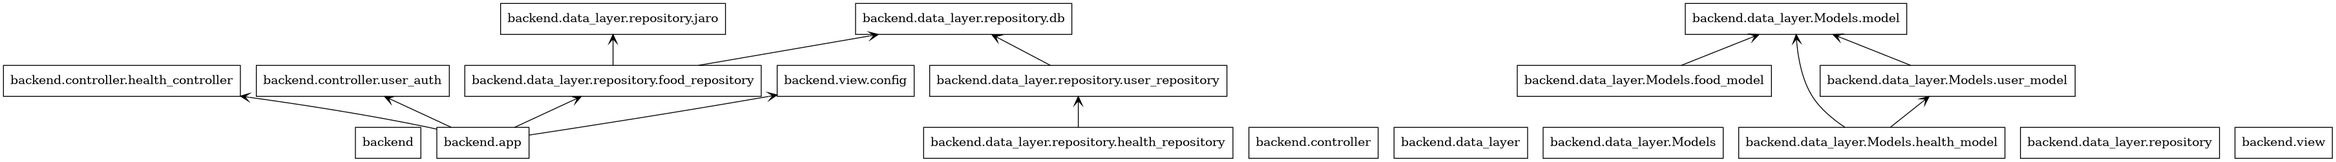
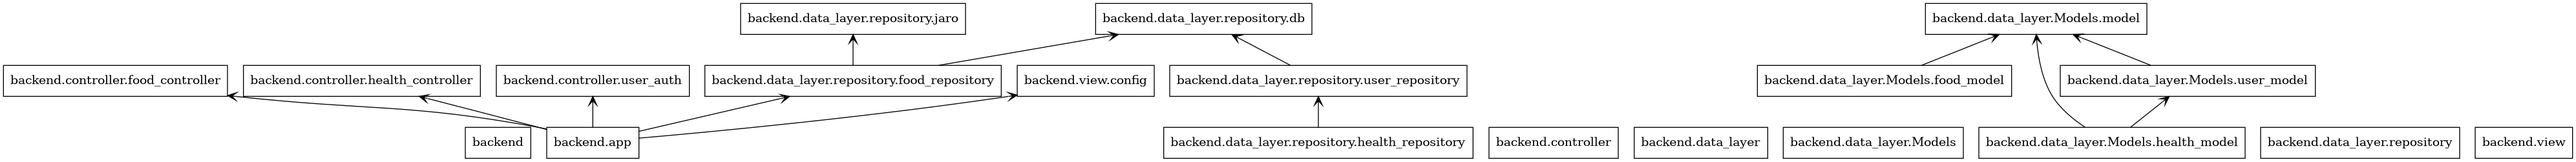
food update and food models

diff --git a/backend/app.py b/backend/app.py
@@ -1,9 +1,11 @@
 from flask import Flask,render_template,request,make_response
 from .controller.user_auth import UserAuth
 from .controller.health_controller import HealthController
-from .data_layer.repository.food_repository import Foods
+from .data_layer.repository.food_repository import FoodRepository
 from flask_cors import CORS
 from .view.config import AppConfig
+from.controller.food_controller import FoodController
+
 app = Flask(__name__)
 CORS(app)
 
@@ -14,7 +16,6 @@ def hello_world():
 
 
 @app.route(AppConfig.signIn_url,methods=['GET','POST'])
-
 def page():
     auth = UserAuth()
     if(request.method == "GET"):
@@ -40,13 +41,21 @@ def login():
 @app.route(AppConfig.search_url,methods=['GET'])
 def search():
     name = request.args.get('name')
-    sorted_list = Foods().search_data(name)
+    sorted_list = FoodRepository().search_data(name)
     return sorted_list
 
 @app.route(AppConfig.health_update_url,methods=['POST'])
-def update():
+def health_update():
     body = request.get_json()
     res = HealthController().updateHealthModel(body)
+    return res
+
+@app.route(AppConfig.food_update_url,methods = ["POST"])
+def food_update():
+    body = request.get_json()
+    food_controller = FoodController()
+    res = food_controller.updateFood(json_data=body)
+
     return res
     
     

diff --git a/backend/data_layer/repository/food_repository.py b/backend/data_layer/repository/food_repository.py
@@ -1,7 +1,28 @@
 from .db import DataBase
 from .jaro import JaroWrinklerSearching
+from ..Models.food_model import FoodModel
+from abc import ABC,abstractmethod
 
-class Foods(DataBase):
+
+class FoodRepositoryInterface(ABC):
+    @abstractmethod
+    def getData(self):
+        pass
+    @abstractmethod
+    def search_data(self,query):
+        pass
+
+    @abstractmethod
+    def updateFoodField(self,json_data):
+        pass
+
+class FoodRepository(FoodRepositoryInterface,DataBase):
+
+    def __new__(cls):
+        if not hasattr(cls,"food_instance"):
+            cls.food_instance = super(FoodRepository,cls).__new__(cls)
+        return cls.food_instance
+
     def __init__(self):
         super().__init__()
         self._cursor = self._conn.cursor()
@@ -21,5 +42,11 @@ class Foods(DataBase):
         jaro_search = JaroWrinklerSearching(data)
         sorted_list = jaro_search.hybrid_search(query=query)
         return sorted_list
-    
 
+
+    def updateFoodField(self,json_data):
+        model = FoodModel.jsonToUpdate(json_data = json_data,query_value=json_data.get("id"))
+        task = f"UPDATE Users SET {model.columns} WHERE id=?"
+        self._cursor.execute(task,model.values)
+        self._conn.commit()
+        

diff --git a/backend/data_layer/repository/user_repository.py b/backend/data_layer/repository/user_repository.py
@@ -1,11 +1,24 @@
 from .db import DataBase
 from ..Models.user_model import UserModel
 
+
 #User class handles the CRUD operations in database 
 class UserRepository(DataBase):
-    def __init__(self):
-        # super().__init__() #initializing the parent class
-        self._cursor = self._conn.cursor()
+    _cursor = None
+    
+    def __new__(cls):
+        super(DataBase).__init__()
+        if not hasattr(cls,'user_instance'):
+            if(cls._cursor is None):
+                if(cls._conn is None):
+                    cls.connect()                    
+                cls._cursor = cls._conn.cursor()
+            cls.user_instance = super(UserRepository,cls).__new__(cls)
+        return cls.user_instance 
+    
+    # def __init__(self):
+    #     # super().__init__() #initializing the parent class
+    #     self._cursor = self._conn.cursor()
 
 
     def signIn(self,json_data):

diff --git a/backend/data_layer/repository/health_repository.py b/backend/data_layer/repository/health_repository.py
@@ -12,6 +12,13 @@ class HeatlthRepositoryInterface(ABC):
      
 
 class HealthRepository(UserRepository,HeatlthRepositoryInterface):
+    def __new__(cls):
+        if not hasattr(cls,'health_instance'):
+            cls.health_instance =  super(HealthRepository,cls).__new__(cls)
+            # super(UserRepository,cls).__init__()
+        return cls.health_instance
+    
+            
     def __init__(self):
         super().__init__()
     
@@ -19,8 +26,6 @@ class HealthRepository(UserRepository,HeatlthRepositoryInterface):
         return weight/(height*height)
     
     def updateHealthFields(self,json_data):
-
-        
             updates = HealthModel.jsonToUpdate(json_data=json_data,query_value=json_data["id"])
             print(f"UPDATE Users SET {updates.columns} WHERE id=?",updates.values)
             # health_data:HealthModel = HealthModel.fromJson(json_data=json_data)

diff --git a/backend/data_layer/repository/db.py b/backend/data_layer/repository/db.py
@@ -1,11 +1,10 @@
 import sqlite3
-from threading import Lock
+# from threading import Lock
 
 class DataBase(object):
     _conn = None
-    _lock = Lock()
+    
     def __new__(cls):
-        with cls._lock:
             if not hasattr(cls,'instance'):
                 if(cls._conn is None):
                     cls._conn = sqlite3.connect("database.db",check_same_thread=False)
@@ -17,6 +16,12 @@ class DataBase(object):
     #     connection = sqlite3.connect("database.db")
     #     connection.row_factory = sqlite3.Row
     #     self._conn = connection
+
+    @staticmethod
+    def connect():
+        DataBase._conn = sqlite3.connect("database.db")
+        
+        
     def createTables(self):
         try:
             cursor = self._conn.cursor()

diff --git a/backend/controller/food_controller.py b/backend/controller/food_controller.py
@@ -1,0 +1,21 @@
+from ..data_layer.repository.food_repository import FoodRepository
+from..view.config import AppConfig
+from abc import ABC,abstractmethod
+
+
+class FoodControllerInterface(ABC):
+    @abstractmethod
+    def updateFood(self,json_data):
+        pass
+
+
+class FoodController(FoodControllerInterface):
+    def __init__(self):
+        self.food_repo = FoodRepository()
+
+    def updateFood(self,json_data):
+        if(json_data.get("id") == None):
+            return {"msg":"Id is required to update"},AppConfig.bad_request_code
+        self.food_repo.updateFoodField(json_data=json_data)
+        return {"msg":"Ok"},AppConfig.ok_code
+    

diff --git a/backend/data_layer/Models/food_model.py b/backend/data_layer/Models/food_model.py
@@ -25,5 +25,7 @@ class FoodModel(ModelInterface):
             energy = json_data.get("energy"),
             calorie = json_data.get("calorie"),
             protien = json_data.get("protien"),)
-    
-            
+    @classmethod
+    def stringToList(food,text:str):
+            converted_data = [[int(y) for y in x.split(",")] for x in text.split(";")]
+            return converted_data

diff --git a/backend/view/config.py b/backend/view/config.py
@@ -1,11 +1,13 @@
 class AppConfig:
     #class variables
+
     start_url = "/" 
     login_url = "/login"
     signIn_url = "/signIn"
     home = "/home"
     search_url = "/search"
     health_update_url = "/user/healthUpdate"
+    food_update_url = "/user/foodUpdate" 
     
     #status codes
     created_code = 201
